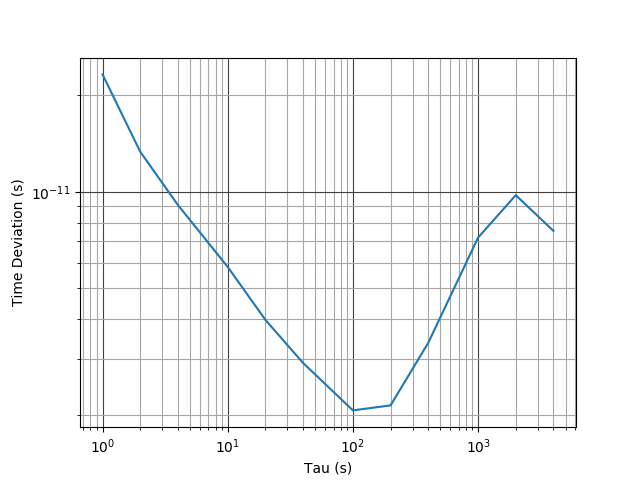
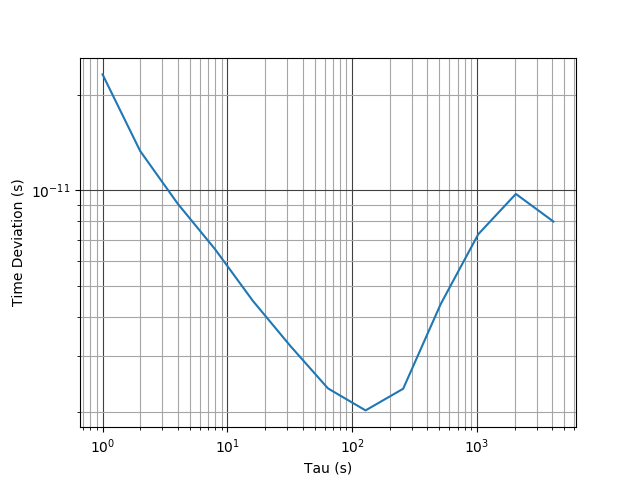
Revisión de la parte experimental
- Modificadas las gráficas de MTIE para aumentar la resolución.
- Modificadas algunas palabras del texto.

Changed region(s): [[0.0625, 0.125, 0.9062, 0.9375], [0.1875, 0.2812, 0.2188, 0.3125]]

diff --git a/paper_src/sec/experiments.tex b/paper_src/sec/experiments.tex
@@ -53,33 +53,35 @@ to avoid instability occasioned by chromatic dispersion on long fiber links.
 \klyonelnote{En esta tabla no están el MDEV y TDEV de las dos últimas filas ¿Es 
 eso normal?}
 \ftglnote{Es por el tipo de cálculo que se hace para dichos estadísticos, que 
-consume más datos que en el caso de las varianzas. Si queda raro podemos quitar 
-los dos últimos del MTIE.}
+consume más datos que en el caso de las varianzas. Como quedaba raro y además 
+redundante con gráfica y tabla he decidido mostrar solo los valores más 
+relevantes.}
 \begin{table*}\centering
 	\ra{0.8}
 	\begin{tabular}{@{} rccc@{}}%\toprule
-		& MDEV & TDEV (s)  & MTIE (s) \\ \midrule
-		\textbf{$\tau$ (s)}\\
-		\small{1}     & 2.41868093e-11 & 1.39642609e-11  & 8.78906250e-11 \\
-		\small{2}     & 8.18381977e-12 & 9.44986109e-12  & 9.27734375e-11 \\
-		\small{4}     & 2.92095805e-12 & 6.74566367e-12  & 1.02539063e-10 \\
-		\small{8}     & 1.05378923e-12 & 4.86724395e-12  & 1.02539063e-10 \\
-		\small{16}    & 3.70004736e-13 & 3.41795734e-12  & 1.02539063e-10 \\
-		\small{32}    & 1.36916757e-13 & 2.52956566e-12  & 1.02539063e-10 \\
-		\small{64}    & 5.26969486e-14 & 1.94717424e-12  & 1.02539063e-10 \\
-		\small{128}   & 2.41679947e-14 & 1.78603498e-12  & 1.02539063e-10 \\
-		\small{256}   & 1.14864284e-14 & 1.69771329e-12  & 1.22070312e-10 \\
-		\small{512}   & 6.76882083e-15 & 2.00088603e-12  & 1.22070312e-10 \\
-		\small{1024}  & 4.60374214e-15 & 2.72176309e-12  & 1.22070312e-10 \\
-		\small{2028}  & 3.37370493e-15 & 3.98911375e-12  & 1.22070312e-10 \\
-		\small{4096}  & 1.20303843e-15 & 2.84497740e-12  & 1.31835938e-10 \\
-		\small{8192}  & 8.69742436e-16 & 4.11358028e-12  & 1.56250000e-10 \\
-		\small{16384} & 			   &                 & 1.66015625e-10 \\
-		\small{32768} &				   &                 & 1.66015625e-10 \\
+		\textbf{$\tau$ (s)} & MDEV & TDEV (s)  & MTIE (s) \\ \midrule
+		\small{1}     & 2.41e-11 & 1.39e-11  & 8.78e-11 \\
+		%%\small{2}     & 8.18381977e-12 & 9.44986109e-12  & 9.27734375e-11 \\
+		%%\small{4}     & 2.92095805e-12 & 6.74566367e-12  & 1.02539063e-10 \\
+		\small{8}     & 1.05e-12 & 4.86e-12  & 1.02e-10 \\
+		%%\small{16}    & 3.70004736e-13 & 3.41795734e-12  & 1.02539063e-10 \\
+		%%\small{32}    & 1.36916757e-13 & 2.52956566e-12  & 1.02539063e-10 \\
+		\small{64}    & 5.26e-14 & 1.94e-12  & 1.02e-10 \\
+		%%\small{128}   & 2.41679947e-14 & 1.78603498e-12  & 1.02539063e-10 \\
+		\small{256}   & 1.14e-14 & 1.69e-12  & 1.22e-10 \\
+		\small{512}   & 6.76e-15 & 2.00e-12  & 1.22e-10 \\
+		%%\small{1024}  & 4.60374214e-15 & 2.72176309e-12  & 1.22070312e-10 \\
+		%%\small{2028}  & 3.37370493e-15 & 3.98911375e-12  & 1.22070312e-10 \\
+		\small{4096}  & 1.20e-15 & 2.84e-12  & 1.31e-10 \\
+		%%\small{8192}  & 8.69742436e-16 & 4.11358028e-12  & 1.56250000e-10 \\
+		%%\small{16384} & 			   &                 & 1.66015625e-10 \\
+		%%\small{32768} &				   &                 & 1.66015625e-10 \\
 		
 		\bottomrule
 	\end{tabular}
-	\caption{Results of the PPS performance analysis.}
+	\caption{In this table it can be checked out the most relevant statistics 
+	for the device characterization performed in the subsection \ref{subsec: 
+	charact_zen}.}
 	\label{tab:exp1res}
 \end{table*}
 
@@ -91,11 +93,11 @@ In the time domain, TDEV shows that the expected error is tens of ps and the
 worst-case showed in the MTIE plot is bounded around 200 ps for the sampling 
 period. 
 
-\klyonelnote{Comentarios acerca de las figuras 9a,b y c. En general no las veo mal, 
-es cierto que el visor de PDF hace cosas raras con el renderizado y hasta que no haces 
-zoom no se ve bien del todo. Sin embargo, la 9c si la veo algo pequeña si te fijas en 
-las letras de los ejes se ven un poco regular incluso ampliando. El resto creo que no 
-están mal en cuanto a resolución.}
+\klyonelnote{Comentarios acerca de las figuras 9a,b y c. En general no las veo 
+mal, es cierto que el visor de PDF hace cosas raras con el renderizado y hasta 
+que no haces zoom no se ve bien del todo. Sin embargo, la 9c si la veo algo 
+pequeña si te fijas en las letras de los ejes se ven un poco regular incluso 
+ampliando. El resto creo que no están mal en cuanto a resolución.}
 
 \begin{figure}
 	\centering
@@ -112,18 +114,21 @@ están mal en cuanto a resolución.}
 		transfer between two WR-ZEN.}
 		\label{fig:tdev_exp1}
 	\end{subfigure}
-	
-	\begin{subfigure}[t]{0.48\textwidth}
-		\includegraphics[width=\textwidth]{img/MTIE_exp1}
+\end{figure}
+
+\begin{figure}
+		\centering
+		\includegraphics[width=0.5\textwidth]{img/MTIE_exp1}
 		\caption[MTIE plot for the WR-ZEN]{Maximum Time Interval Error for a 
 		time transfer between two WR-ZEN.}
 		\label{fig:mtie_exp1}
-	\end{subfigure}
+
 \end{figure}
 
-The obtained values reveal that the proposed PPS distribution solution fulfills 
-the requirements to be used in the SKA PPS distribution system. Although, it is 
-necessary to evaluate it in more realistic conditions before concluding its goodness:
+The obtained values reveal that the proposed WR node for the PPS distribution 
+solution fulfills the requirements to be used in the SKA PPS distribution 
+system. Although, it is necessary to evaluate it in more realistic conditions 
+before concluding its goodness:
 
 \begin{itemize}
 	\item Evaluate the WR-ZEN as final node of a WR network. The purpose of 
@@ -155,8 +160,6 @@ external time reference, another WRS as intermediate BC and a WR-ZEN as
 endpoint. This configuration allows synchronizing up to 306 WR nodes with an 
 expected performance similar to the results obtained in our test for the WR-ZEN.
 
-\klyonelnote{Esta figura (Fig. 10) está bien de tamaño pero quizás aumentaría un 
-poco la fuente de las letras más pequeñas que cuesta un poco leerlas.}
 \begin{figure}
 	\centering
 	\includegraphics[width=0.7\linewidth]{img/prueba_red}
@@ -176,14 +179,17 @@ counter along 4 hours.
 
 \begin{figure}
 	\centering
-	\includegraphics[width=0.9\linewidth]{img/tdev_exp3}
+	\includegraphics[width=0.5\linewidth]{img/tdev_exp3}
 	\caption[TDEV of the end-nodes in the scalability test.]{Time Deviation 
 	plot comparing the PPS signal from the end-nodes (WR-ZEN) to the Grand 
 	Master of the network.}
 	\label{fig:tdevnet}
 \end{figure}
 
-TDEV and MTIE values have been calculated by octaves \klyonelnote{¿Esto de "octaves" está bien?}, the numerical values can 
+TDEV and MTIE values have been calculated by octaves \klyonelnote{¿Esto de 
+"octaves" está bien?} \ftglnote{Sí, quiere decir doblando el valor, en lugar de 
+multiplicando por 10, lo que nos hace ganar algunos puntos más.}, the numerical 
+values can 
 be found in Table \ref{tab:netresults}. Graphical representations are included 
 in Figures \ref{fig:tdevnet} and \ref{fig:mtienet} respectively. TDEV results 
 show that expected synchronization accuracy for the end-nodes is around tens of 
@@ -195,24 +201,25 @@ is more than enough what SKA1-mid needs (5ns).
 	\begin{tabular}{@{} rcc@{}}%\toprule
 		& TDEV (s)  & MTIE (s) \\ \midrule
 		\textbf{$\tau$ (s)}\\
-		\small{1}     & 2.32509201e-11  & 1.36718750e-10 \\
-		\small{2}     & 1.33315382e-11  & 1.36718750e-10 \\
-		\small{4}     & 9.08699704e-12  & 1.36718750e-10 \\
-		\small{8}     & 6.51222259e-12  & 1.36718750e-10 \\
-		\small{16}    & 4.48330572e-12  & 1.36718750e-10 \\
-		\small{32}    & 3.22792513e-12  & 1.36718750e-10 \\
-		\small{64}    & 2.37194854e-12  & 1.46484375e-10 \\
-		\small{128}   & 2.02186966e-12  & 1.46484375e-10 \\
-		\small{256}   & 2.36616321e-12  & 1.46484375e-10 \\
-		\small{512}   & 4.38155942e-12  & 1.61132813e-10 \\
-		\small{1024}  & 7.27858642e-12  & 1.66015625e-10 \\
-		\small{2048}  & 9.75139418e-12  & 1.75781250e-10 \\
-		\small{4096}  & 7.97809951e-12  & 1.90429688e-10 \\
-		\small{8192}  &                 & 2.00195313e-10 \\
+		\small{1}     & 2.32e-11  & 1.36e-10 \\
+		%\small{2}     & 1.33315382e-11  & 1.36718750e-10 \\
+		%\small{4}     & 9.08699704e-12  & 1.36718750e-10 \\
+		\small{8}     & 6.51e-12  & 1.36e-10 \\
+		%\small{16}    & 4.48330572e-12  & 1.36718750e-10 \\
+		%\small{32}    & 3.22792513e-12  & 1.36718750e-10 \\
+		\small{64}    & 2.37e-12  & 1.46e-10 \\
+		%\small{128}   & 2.02186966e-12  & 1.46484375e-10 \\
+		%\small{256}   & 2.36616321e-12  & 1.46484375e-10 \\
+		\small{512}   & 4.38e-12  & 1.61e-10 \\
+		\small{1024}  & 7.27e-12  & 1.66e-10 \\
+		\small{2048}  & 9.75e-12  & 1.75e-10 \\
+		\small{4096}  & 7.97e-12  & 1.90e-10 \\
+		%\small{8192}  &                 & 2.00195313e-10 \\
 		
 		\bottomrule
 	\end{tabular}
-	\caption{Results of the scalability analysis.}
+	\caption{This table contains the Time Deviation and Maximum Time Interval 
+	Error results from the scalability test.}
 	\label{tab:netresults}
 \end{table*}
 
@@ -227,7 +234,7 @@ synchronization.
 
 \begin{figure}
 	\centering
-	\includegraphics[width=0.9\linewidth]{img/MTIE_exp3}
+	\includegraphics[width=0.5\linewidth]{img/MTIE_exp3}
 	\caption[MTIE of the end-nodes in the scalability test.]{Maximum Time 
 	Interval Error
 	plot comparing the PPS signal from the end-nodes (WR-ZEN) to the Grand 
@@ -247,16 +254,13 @@ links. The timing solution must compensate appropriately those effects in order
 to maintain the synchronization performance inside the limits required by the 
 SKA's infrastructure.
 
-On this contribution we've focused on the temperature change effect on the cable
+On this contribution, we've focused on the temperature change effect over the 
+cable
 \textit{round-trip} time (CRTT) and the PPS performance. To evaluate that, we 
 own a climate chamber in the laboratory and some fiber spools of tens of 
 kilometers. 
 We couldn't evaluate properly wind impact with our equipment, because of this, 
 the experiments will only determine temperature effect on synchronization.
-
-\ftgnote{Aquí un párrafo mencionando los efectos físicos sobre los haces de luz 
-que viajan por la fibra al cambiar la temperatura. Índice de refracción. 
-Aportar referencias!!!!}
 
 Theoretically, WR is able to dynamically calibrate the master to slave 
 propagation delay from the total \textit{round-trip} time, and therefore PPS 
@@ -272,11 +276,10 @@ mid-distance links, in laboratory conditions, $\alpha$ is nearly negligible and
 the current link model behaves very well. The WR network in SKA will be formed 
 by long distance links exposed to external elements. In the concrete situation 
 of the South Africa facilities, the chosen location was the Karoo region. 
-\ftglnote{comprobar eso porque lo he sacado de Wikipedia} This region is a 
-semi-desert area, very adequate to reduce human interferences in the high 
-resolution data acquisition equipment, but with a inconvenient respect to the 
-temperature point of view: desert zones have a high difference between day 
-and night temperatures.
+This region is a semi-desert area, very adequate to reduce human interferences 
+in the high resolution data acquisition equipment, but with a inconvenient 
+respect to the temperature point of view: desert zones have a high difference 
+between day and night temperatures.
 
 \begin{figure}
 	\centering
@@ -289,7 +292,7 @@ and night temperatures.
 
 We performed a series of experiments introducing a 50 km length fiber spool in 
 a climate chamber. The CRTT and the PPS offset between master and slave have 
-been evaluated for a temperature range from 20 ºC to 50 ºC with 10 ºC steps. 
+been measured for a temperature range from 20 ºC to 50 ºC with 10 ºC steps. 
 The average temperature difference between day and night in the Karoo region on 
 each month is below 20 ºC, so the experiment covers comfortably the expected 
 temperature operation conditions.
@@ -325,19 +328,35 @@ is depicted in figure \ref{fig:tempsetup}.
 
 The most relevant results are included in Table \ref{tab:temp}: (i) the mean 
 value of CRTT and PPS offset samples, and (ii) their sample standard deviation. 
-A total of 7200 samples (2 hours) have been used to compute the presented 
-statistics. The amplitude of the CRTT sampled data is 96496 ps. Dividing it by 
-the temperature range we obtained a CRTT variation of 3213 ps/ºC. It's 
-important to remark the huge change in the propagation delay. Considering a 
-synchronization system that is not capable of dynamically calibrate that 
-change, the final performance would suffer of an enormous degradation, which is 
-unacceptable for the SKA equipment. The peak-to-peak difference for the PPS 
-offset is 211 ps which leaves us a 7 ps/ºC and if we divide by the total link 
-length: $0.14 ps/ºC \cdot km$.
+A total of 7200 samples (2 hours) per temperature step have been used to 
+compute the presented statistics. The amplitude of the CRTT sampled data is 
+96496 ps. Dividing it by the temperature range we obtained a CRTT variation of 
+3213 ps/ºC. It's important to remark the huge change in the propagation delay. 
+Considering a synchronization system that is not capable of dynamically 
+calibrate that change, the final performance would suffer of an enormous 
+degradation, which is unacceptable for the SKA equipment. The peak-to-peak 
+difference for the PPS offset is 211 ps which leaves us a 7 ps/ºC and if we 
+divide by the total link length: $0.14 ps/ºC \cdot km$.
+
+\begin{figure}
+	\centering
+	\begin{subfigure}[t]{0.48\textwidth}
+		\includegraphics[width=\textwidth]{img/crttvstemp}
+		\caption[CRTT vs. Fiber temperature]{The figure shows the relation 
+			between the fiber temperature and the cable round-trip time.}
+		\label{fig:crttvstemp}
+	\end{subfigure}
+	~ % This symbol adds a white space between images
+	\begin{subfigure}[t]{0.48\textwidth}
+		\includegraphics[width=\textwidth]{img/ppsvscrtt}
+		\caption[PPS offset vs. CRTT]{This figure shows how PPS offset is 
+			sightly influenced by changes in the cable round-trip time.}
+		\label{fig:ppsvscrtt}
+	\end{subfigure}
+\end{figure}
 
 Figure \ref{fig:crttvstemp} shows a clear linear dependency between the 
-temperature and the CRTT as stated on ?? \ftglnote{hablar con Jose para alguna 
-ref de dispersión cromática y temperatura}. The PPS offset is not constant as 
+temperature and the CRTT. Although, the PPS offset is not constant as 
 we suppose in our initial hypothesis. The Figure \ref{fig:ppsvscrtt} suggests 
 an inverse linear dependency between CRTT and offset, but if we take the 
 standard error values into account, we can't state clearly that linear 
@@ -349,22 +368,3 @@ observed offset variation for a long distance link and a 30ºC temperature
 gradient is only 200 ps that joined to the results from the previous 
 experiments make the new PPS distribution system suitable for the SKA1-mid 
 timing system.
-
-
-
-\begin{figure}
-	\centering
-	\begin{subfigure}[t]{0.48\textwidth}
-		\includegraphics[width=\textwidth]{img/crttvstemp}
-		\caption[CRTT vs. Fiber temperature]{The figure shows the relation 
-		between the fiber temperature and the cable round-trip time.}
-		\label{fig:crttvstemp}
-	\end{subfigure}
-	~ % This symbol adds a white space between images
-	\begin{subfigure}[t]{0.48\textwidth}
-		\includegraphics[width=\textwidth]{img/ppsvscrtt}
-		\caption[PPS offset vs. CRTT]{This figure shows how PPS offset is 
-		sightly influenced by changes in the cable round-trip time.}
-		\label{fig:ppsvscrtt}
-	\end{subfigure}
-\end{figure}
